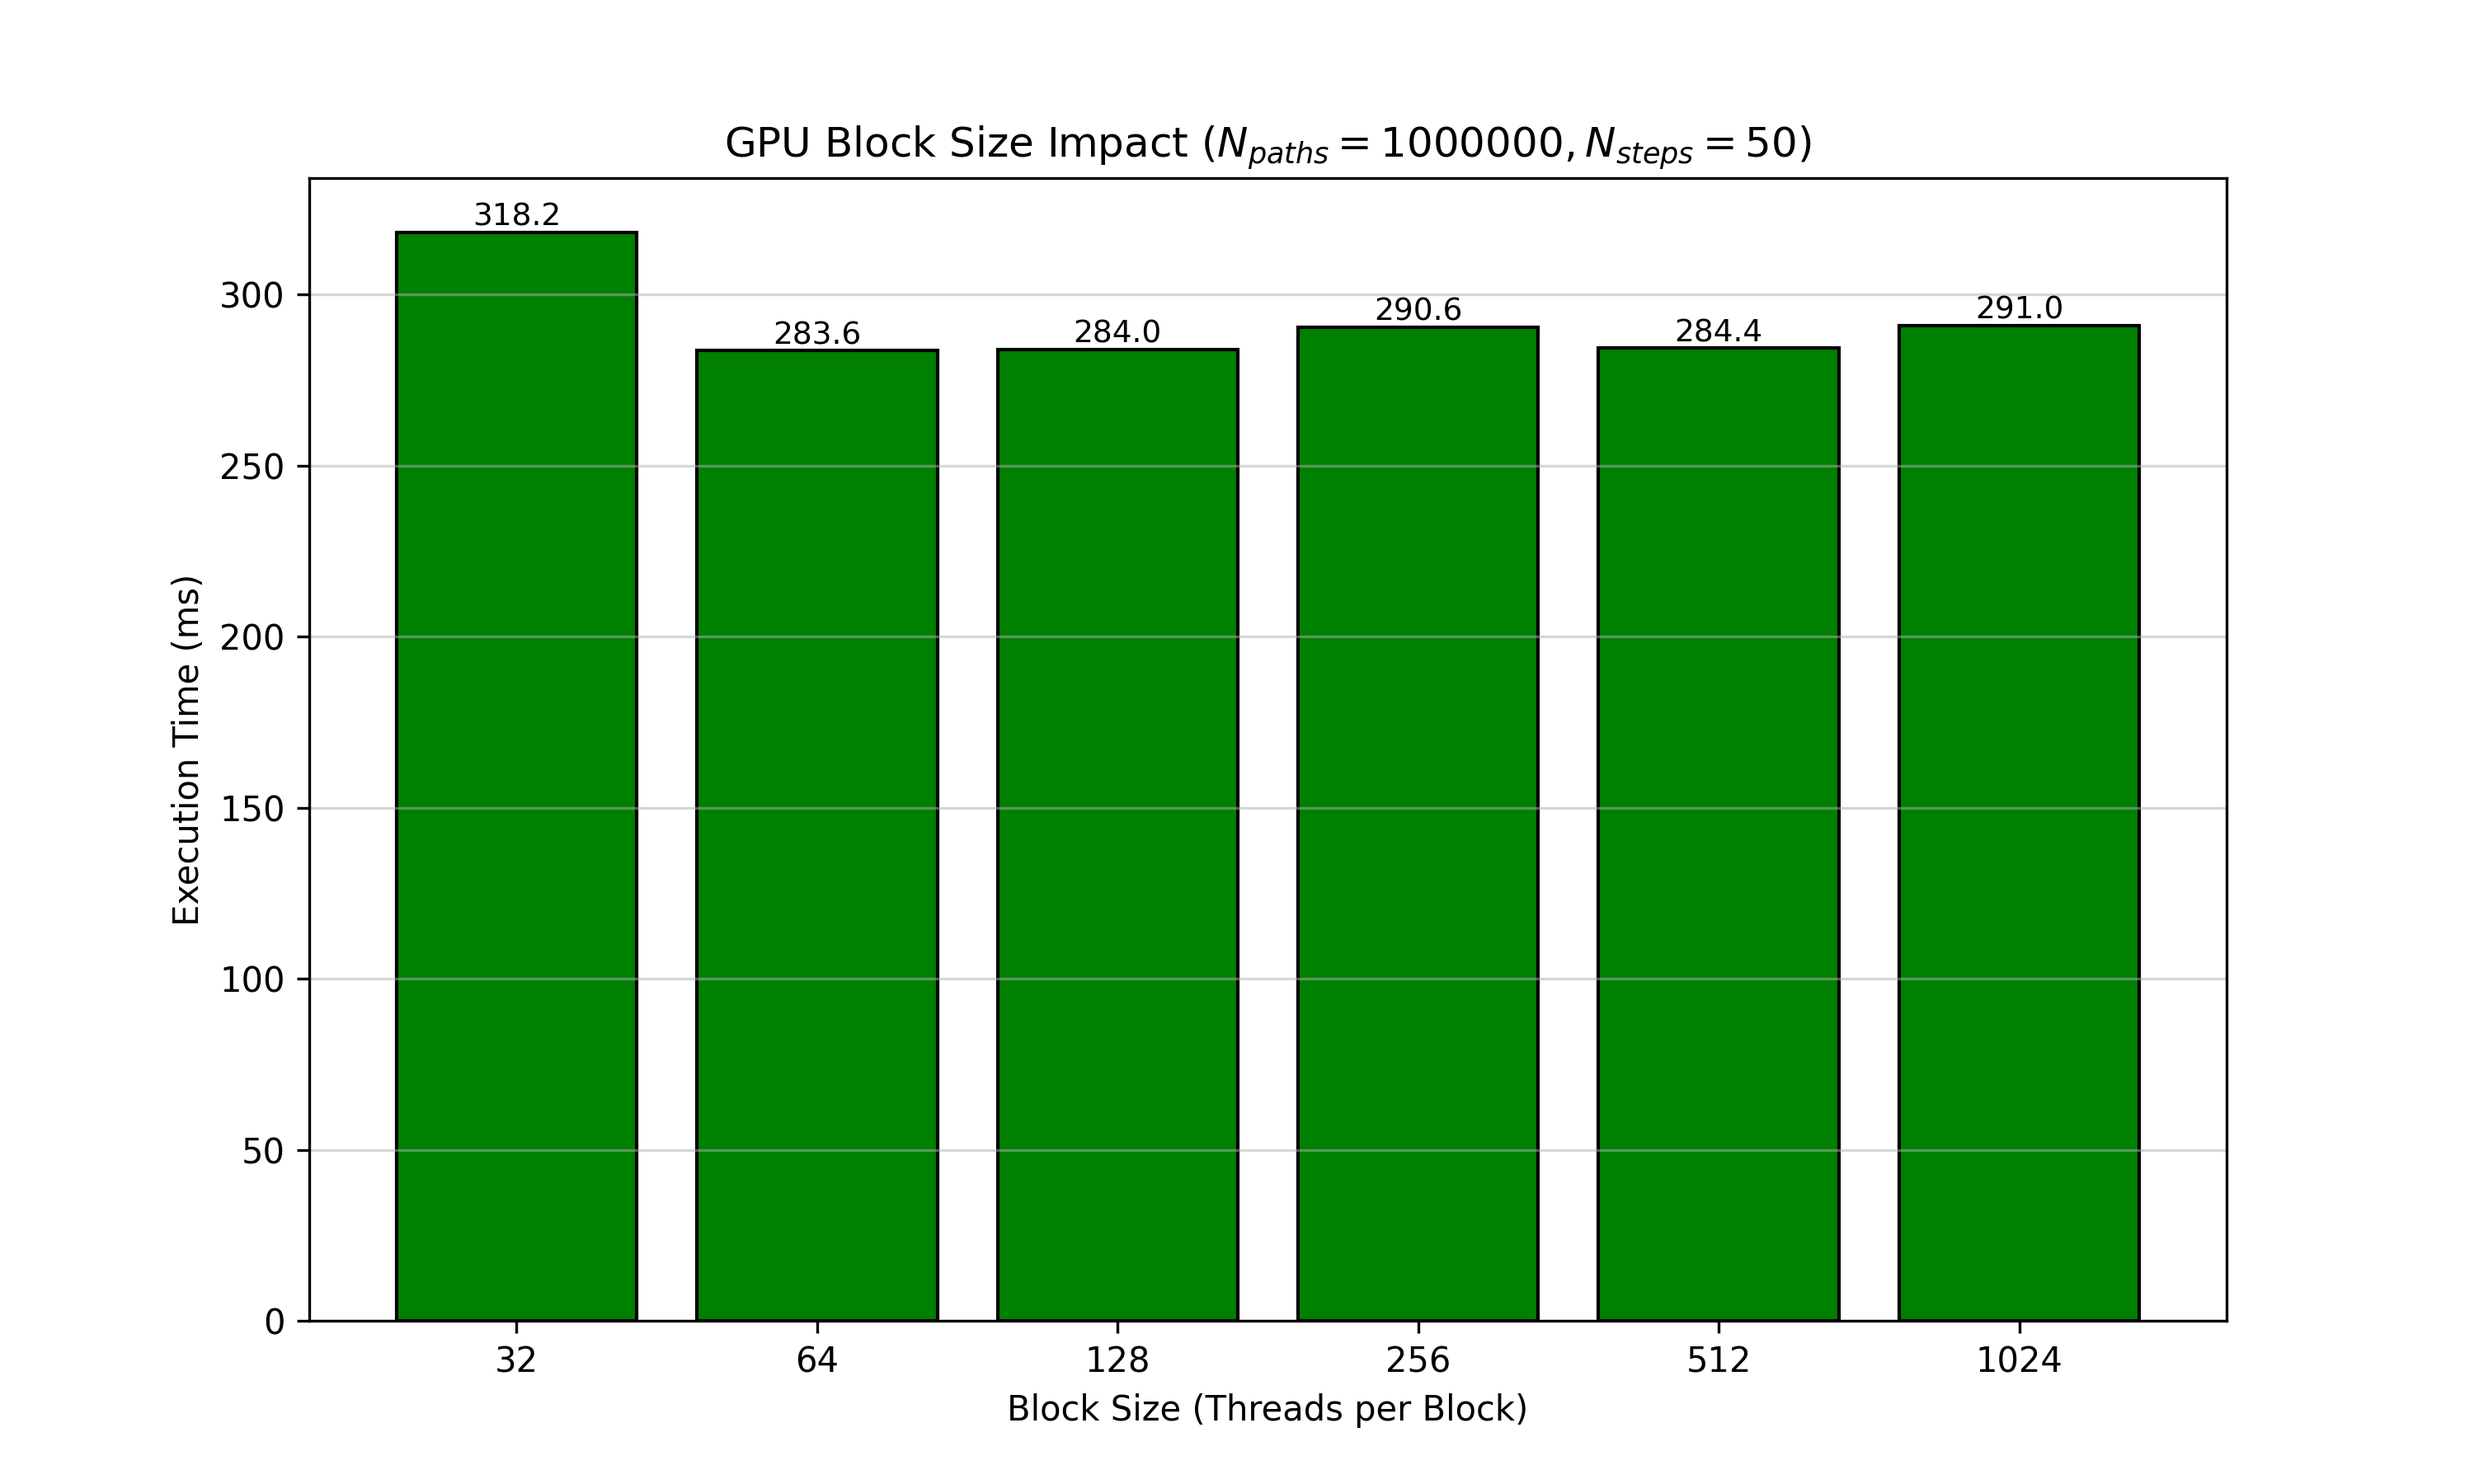
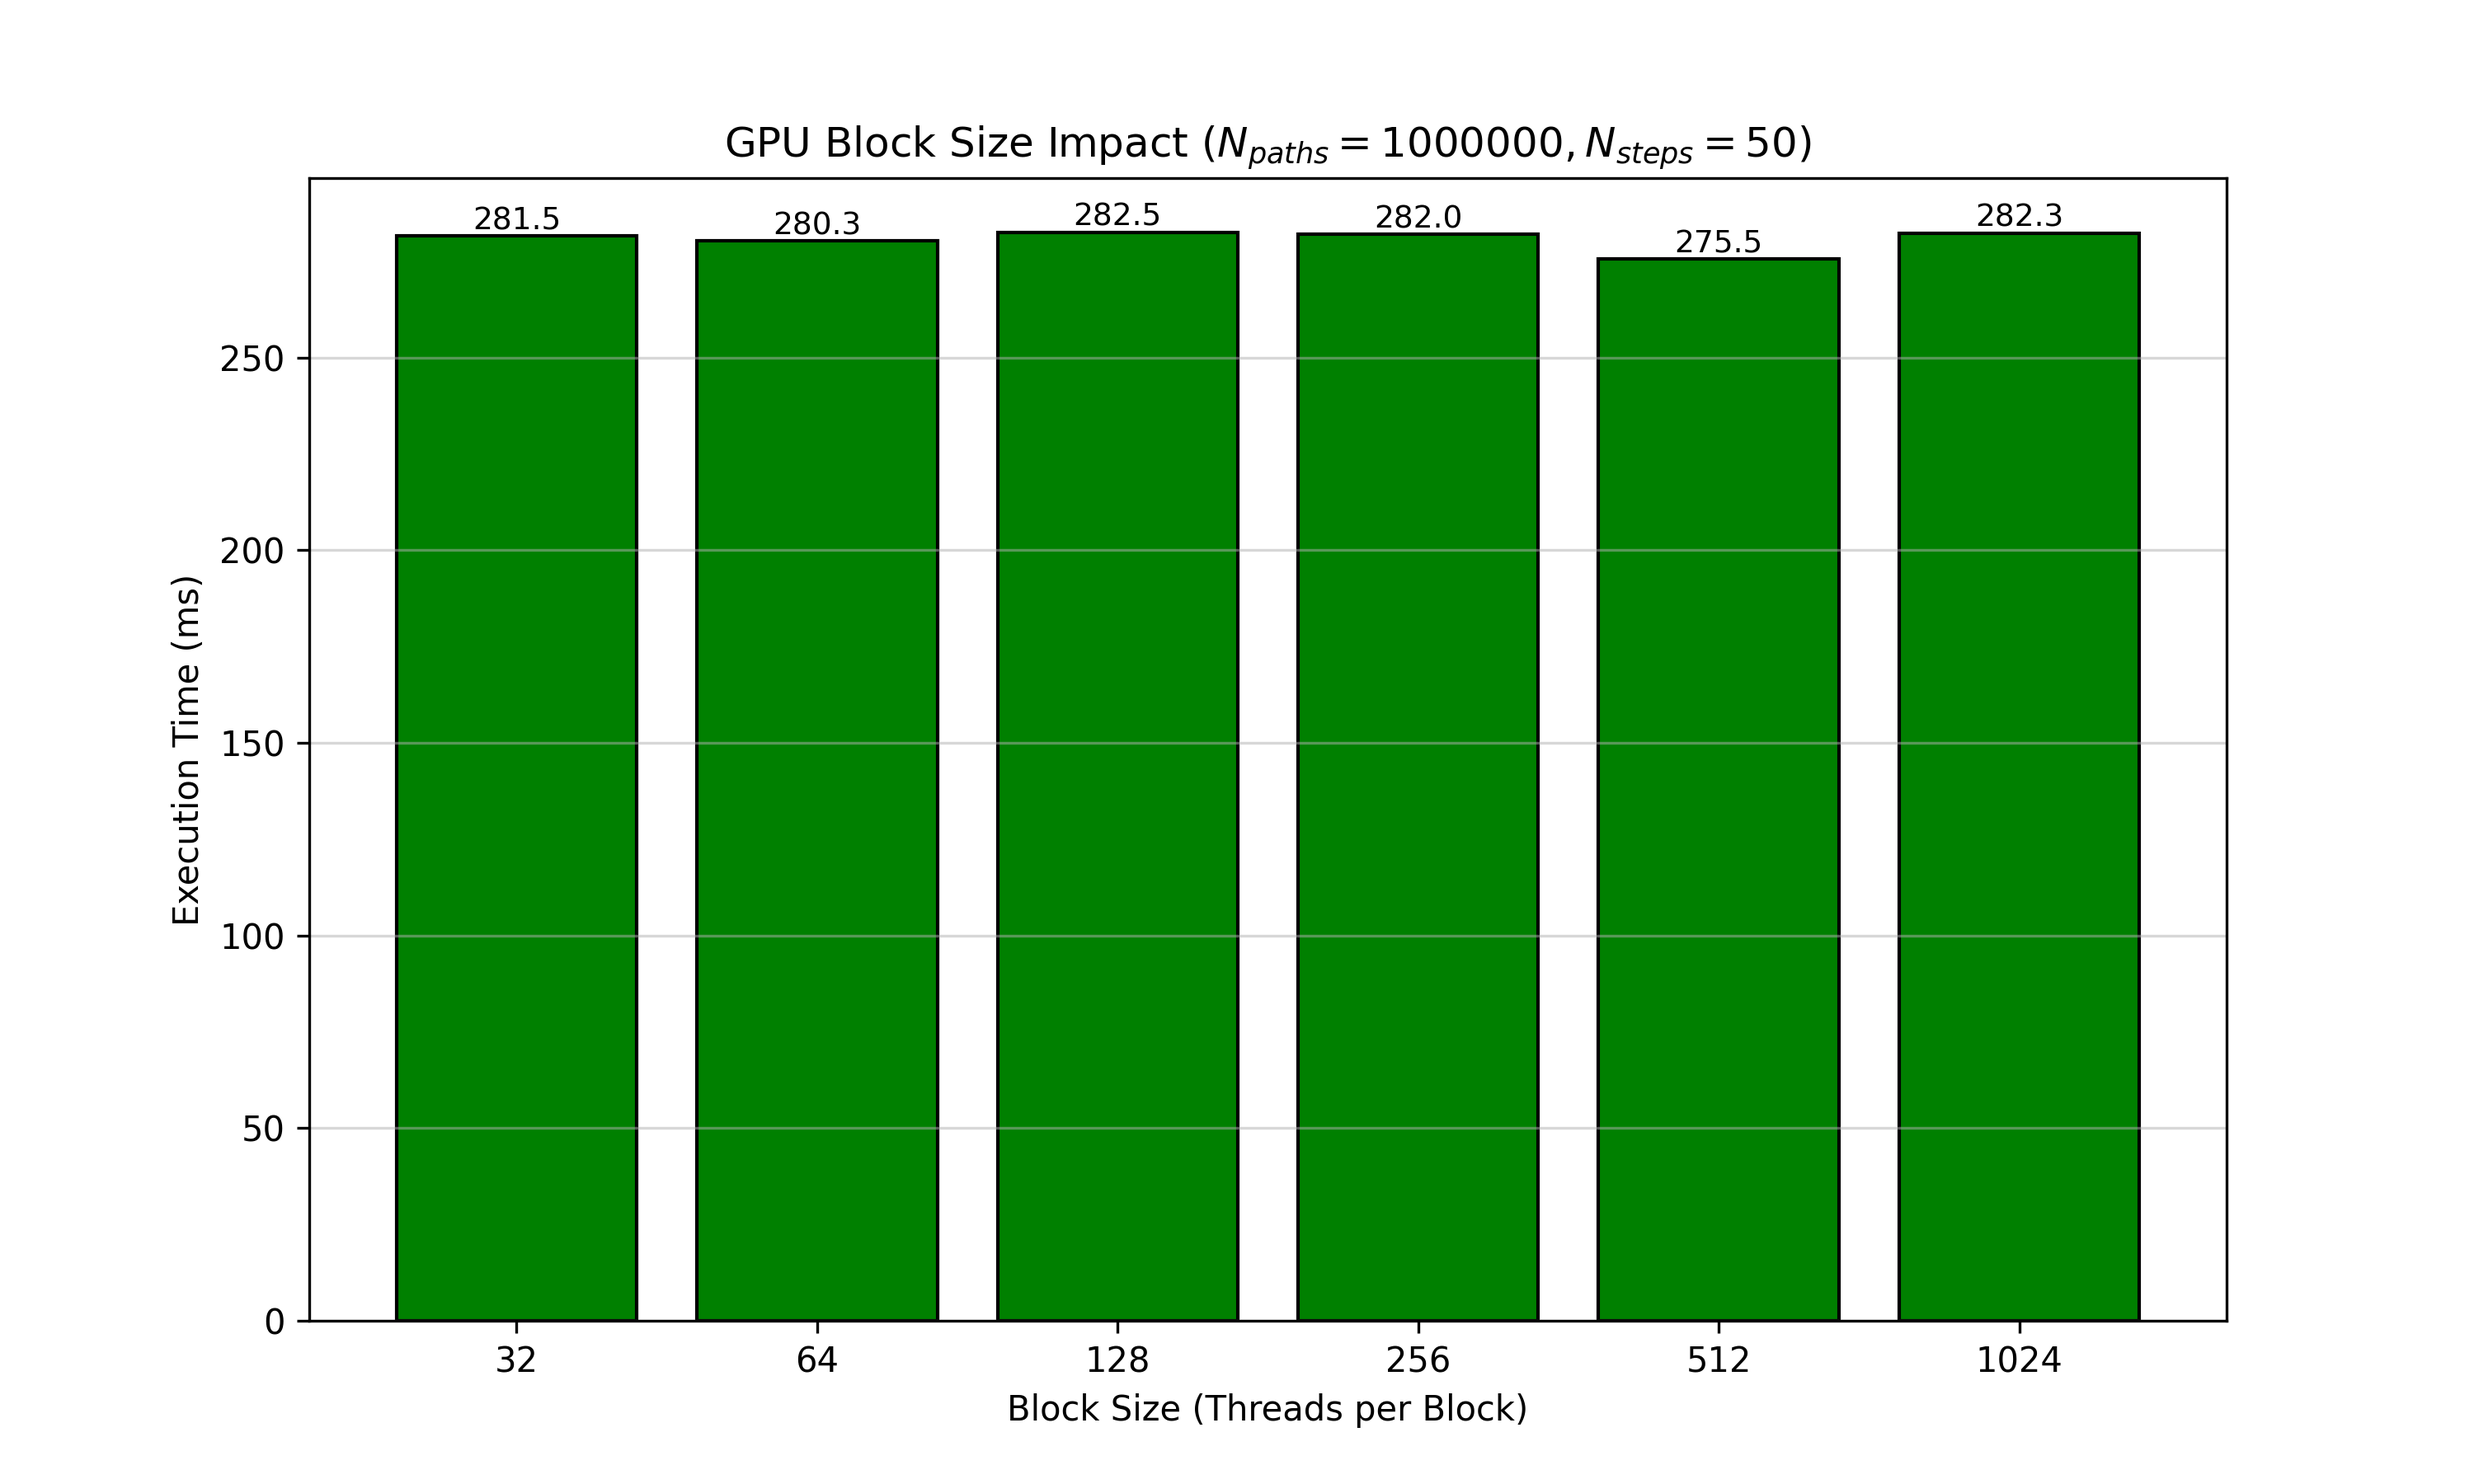
Enlarge SM image, add block size explanation, update benchmark to 10 trials

diff --git a/Rapport/Rapport.tex b/Rapport/Rapport.tex
@@ -378,10 +378,12 @@ de garantir des accès coalescents\footnote{L'accès coalescent désigne le regr
 
 \begin{figure}[H]
     \centering
-    \includegraphics[width=0.7\linewidth]{images/ada_sm_architecture.png}
+    \includegraphics[width=0.9\linewidth]{images/ada_sm_architecture.png}
     \caption{Architecture d'un Streaming Multiprocessor (SM) Ada Lovelace. Chaque SM contient 4 partitions avec des unités FP32/INT32, des Tensor Cores de 4ème génération, 128 Ko de cache L1/mémoire partagée, et un RT Core de 3ème génération.}
     \label{fig:ada_sm}
 \end{figure}
+
+Un paramètre clé de l'optimisation CUDA est la taille des blocs de threads. En CUDA, les threads sont organisés en blocs, et plusieurs blocs sont exécutés sur un même SM. La taille de bloc (nombre de threads par bloc) peut être ajustée par multiples de 32 (taille d'un warp) jusqu'à un maximum de 1024 threads. Ce paramètre influence directement l'occupation des SMs et donc les performances globales. L'impact de ce paramètre sera analysé dans la Section~\ref{sec:gpu_block_benchmark}.
 
 Cette implémentation permet d’évaluer concrètement les gains de performance
 apportés par le GPU et de mettre en évidence les limites structurelles du LSMC

diff --git a/Benchmarks/plot_gpu_block_size.py b/Benchmarks/plot_gpu_block_size.py
@@ -10,7 +10,7 @@ N_PATHS = 1000000  # 1M paths for meaningful GPU benchmark
 N_STEPS = 50
 MODE = "gpu"
 BLOCK_SIZES = [32, 64, 128, 256, 512, 1024]
-N_TRIALS = 5
+N_TRIALS = 10
 OUTPUT_IMAGE = os.path.join("..", "Rapport", "images", "gpu_block_size_scaling.png")
 
 def run_benchmark_average(block_size, exe_path, n_trials=5):
